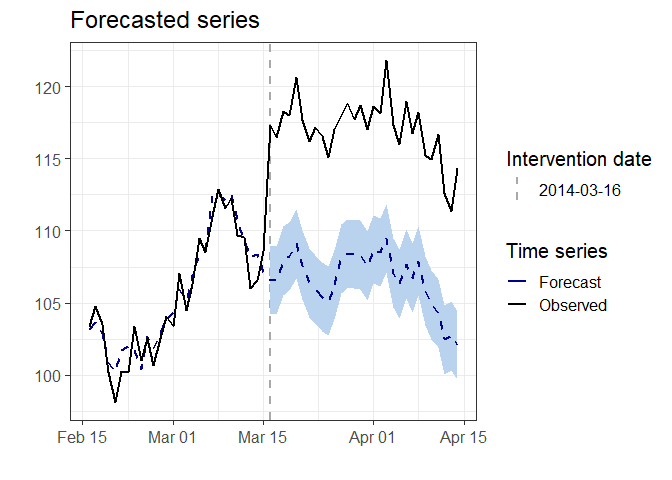
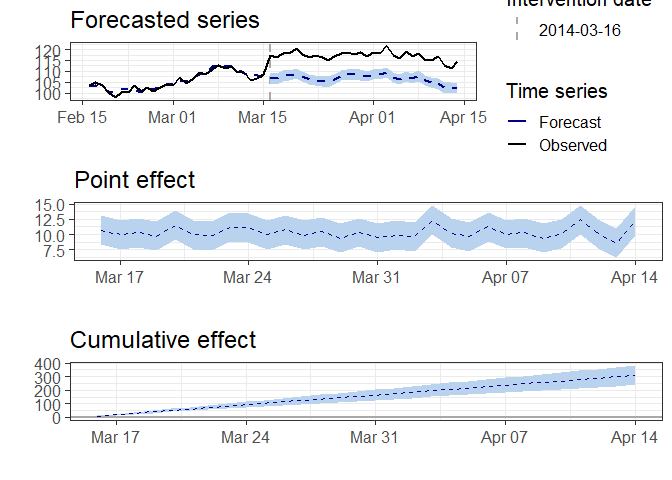
modify readme

diff --git a/README.md b/README.md
@@ -65,34 +65,24 @@ ce <- CausalArima(y = ts(y, start = start, frequency = 1), auto = TRUE, ic = "ai
 ```
 
 ``` r
-fore<-plot(ce, type="forecast")
+forecasted<-plot(ce, type="forecast", printing=FALSE)
+impact<-plot(ce, type="impact", printing=FALSE)
+
+grid.arrange(forecasted, impact$plot, impact$cumulative_plot)
 ```
 
 <img src="man/figures/README-unnamed-chunk-2-1.png" width="100%" />
 
 ``` r
-impact<-plot(ce, type="impact")
+table(ce)
+#>     2014-04-14 
+#> avg 10.36^{***}
+#> sd  (0.22)
 ```
-
-<img src="man/figures/README-unnamed-chunk-2-2.png" width="100%" />
-
-    #> TableGrob (2 x 1) "arrange": 2 grobs
-    #>                 z     cells    name           grob
-    #> plot            1 (1-1,1-1) arrange gtable[layout]
-    #> cumulative_plot 2 (2-2,1-1) arrange gtable[layout]
-    table(ce)
-    #>     2014-04-14 
-    #> avg 10.36^{***}
-    #> sd  (0.22)
 
 ``` r
-residuals<-plot(ce, type="residuals")
+residuals<-plot(ce, type="residuals", printing=FALSE)
+grid.arrange(residuals$ACF, residuals$PACF, residuals$QQ_plot)
 ```
 
-<img src="man/figures/README-unnamed-chunk-3-1.png" width="100%" />
-
-    #> TableGrob (3 x 1) "arrange": 3 grobs
-    #>         z     cells    name           grob
-    #> ACF     1 (1-1,1-1) arrange gtable[layout]
-    #> PACF    2 (2-2,1-1) arrange gtable[layout]
-    #> QQ_plot 3 (3-3,1-1) arrange gtable[layout]
+<img src="man/figures/README-unnamed-chunk-4-1.png" width="100%" />
